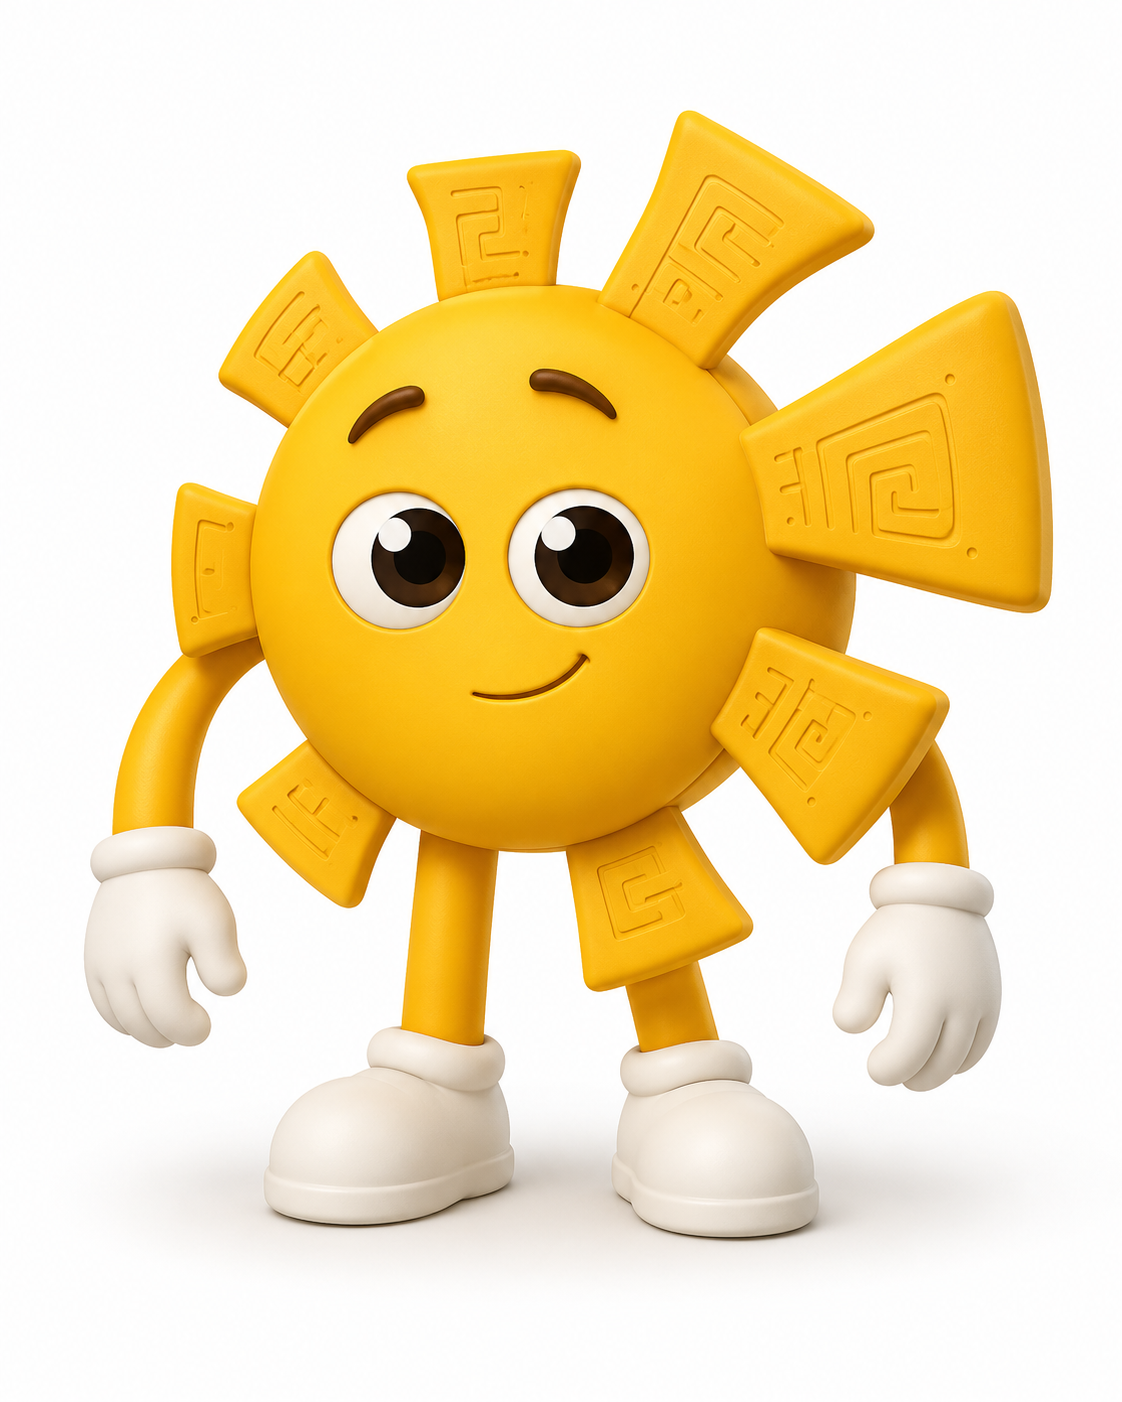
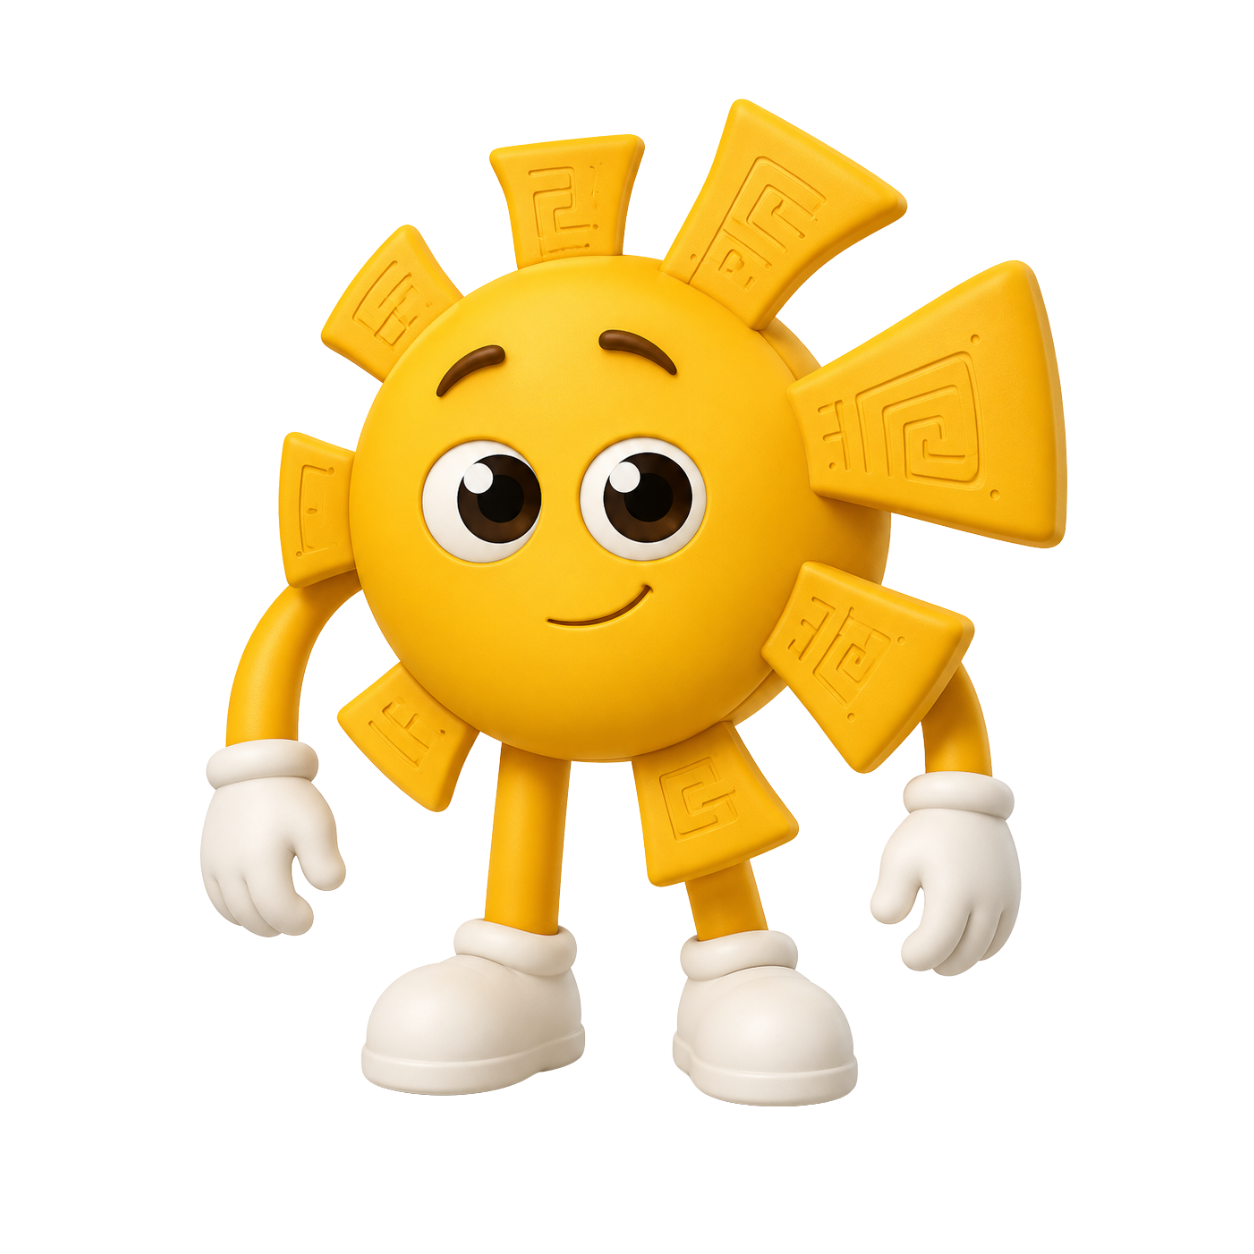
fix(auth): add logout to AuthRepository + clear session on logout
- Added logout() to AuthRepository interface
- MockAuthRepository: logout() sets loggedIn = false
- ParentHomeScreen: 'Cerrar sesión' now calls authRepository.logout()
  and clears SessionManager before navigating to Login

diff --git a/sharedUI/src/commonMain/kotlin/org/alphakids/app/parent/ParentHomeScreen.kt b/sharedUI/src/commonMain/kotlin/org/alphakids/app/parent/ParentHomeScreen.kt
@@ -16,12 +16,17 @@ import androidx.compose.runtime.getValue
 import androidx.compose.runtime.mutableIntStateOf
 import androidx.compose.runtime.mutableStateOf
 import androidx.compose.runtime.remember
+import androidx.compose.runtime.rememberCoroutineScope
 import androidx.compose.runtime.setValue
 import androidx.compose.ui.Modifier
 import androidx.compose.ui.text.style.TextOverflow
 import androidx.compose.ui.unit.dp
 import androidx.navigation.NavController
+import kotlinx.coroutines.launch
+import org.alphakids.app.koinInject
 import org.alphakids.app.navigation.Screen
+import org.alphakids.app.onboarding.domain.repository.AuthRepository
+import org.alphakids.app.parent.domain.model.SessionManager
 
 /**
  * Bottom navigation tab definition for the parent dashboard using emoji icons.
@@ -80,8 +85,14 @@ fun ParentHomeScreen(
                             color = MaterialTheme.colorScheme.primary,
                         )
                     }
+                    val authRepository: AuthRepository = koinInject()
+                    val scope = rememberCoroutineScope()
                     TextButton(
                         onClick = {
+                            scope.launch {
+                                authRepository.logout()
+                            }
+                            SessionManager.clearSession()
                             navController.navigate(Screen.Login.route) {
                                 popUpTo(0) { inclusive = true }
                             }

diff --git a/sharedLogic/src/commonMain/kotlin/org/alphakids/app/onboarding/data/mock/MockAuthRepository.kt b/sharedLogic/src/commonMain/kotlin/org/alphakids/app/onboarding/data/mock/MockAuthRepository.kt
@@ -183,6 +183,10 @@ class MockAuthRepository : AuthRepository {
 
     override suspend fun isLoggedIn(): Boolean = loggedIn
 
+    override suspend fun logout() {
+        loggedIn = false
+    }
+
     // ── Helpers ──
 
     private fun generateOtpCode(): String {

diff --git a/sharedLogic/src/commonMain/kotlin/org/alphakids/app/onboarding/domain/repository/AuthRepository.kt b/sharedLogic/src/commonMain/kotlin/org/alphakids/app/onboarding/domain/repository/AuthRepository.kt
@@ -27,4 +27,7 @@ interface AuthRepository {
 
     /** Check if a user is currently logged in. */
     suspend fun isLoggedIn(): Boolean
+
+    /** Log out the current user. */
+    suspend fun logout()
 }